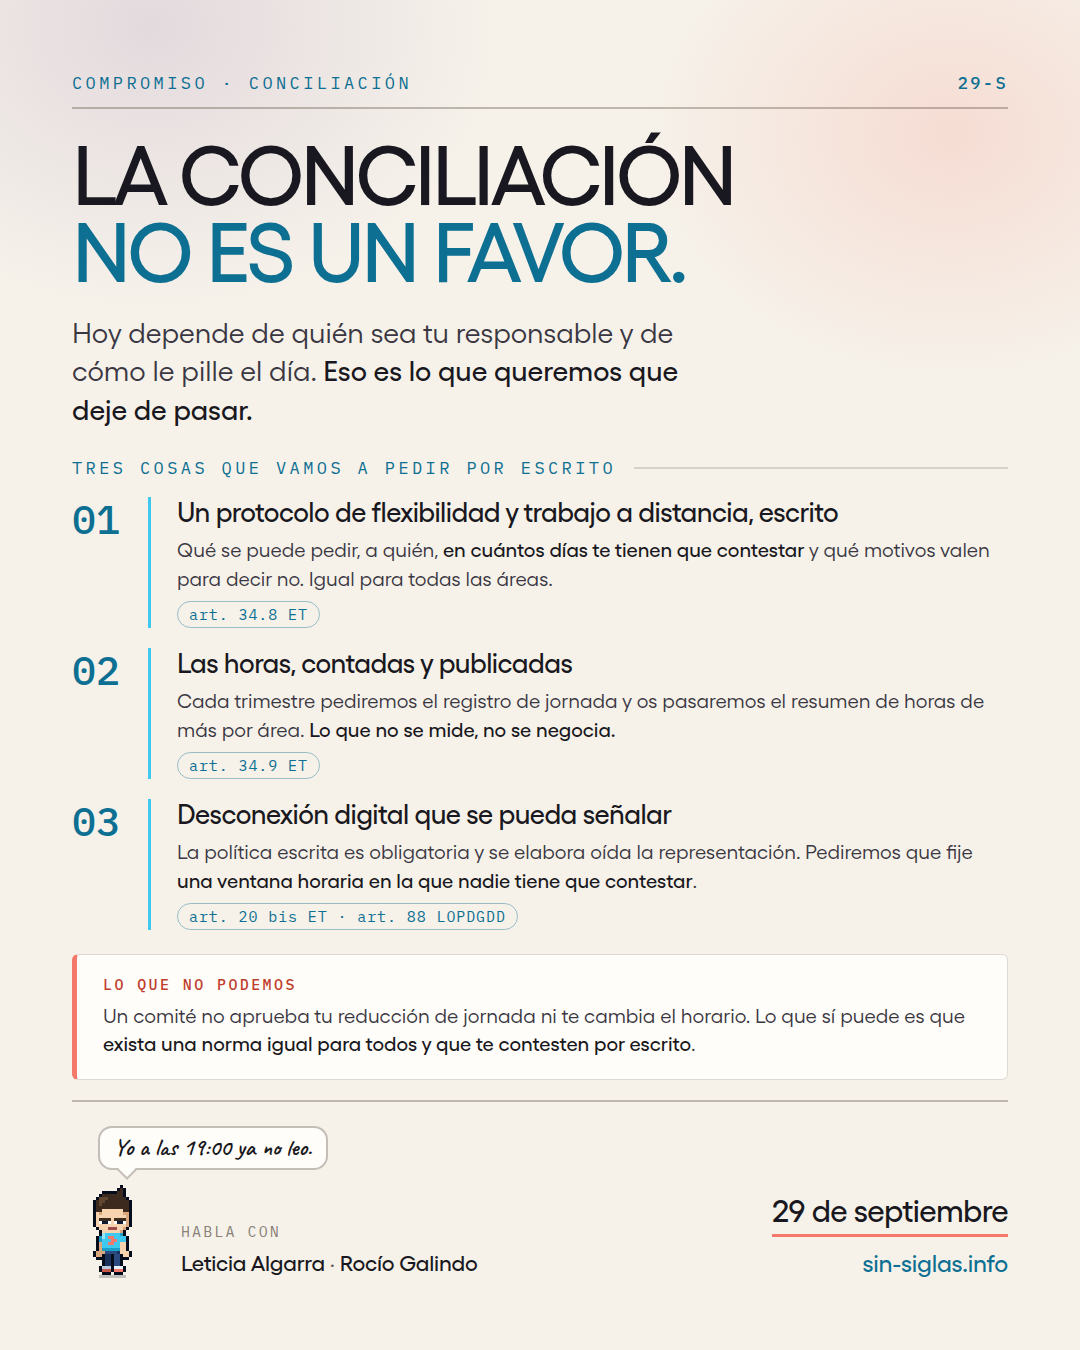
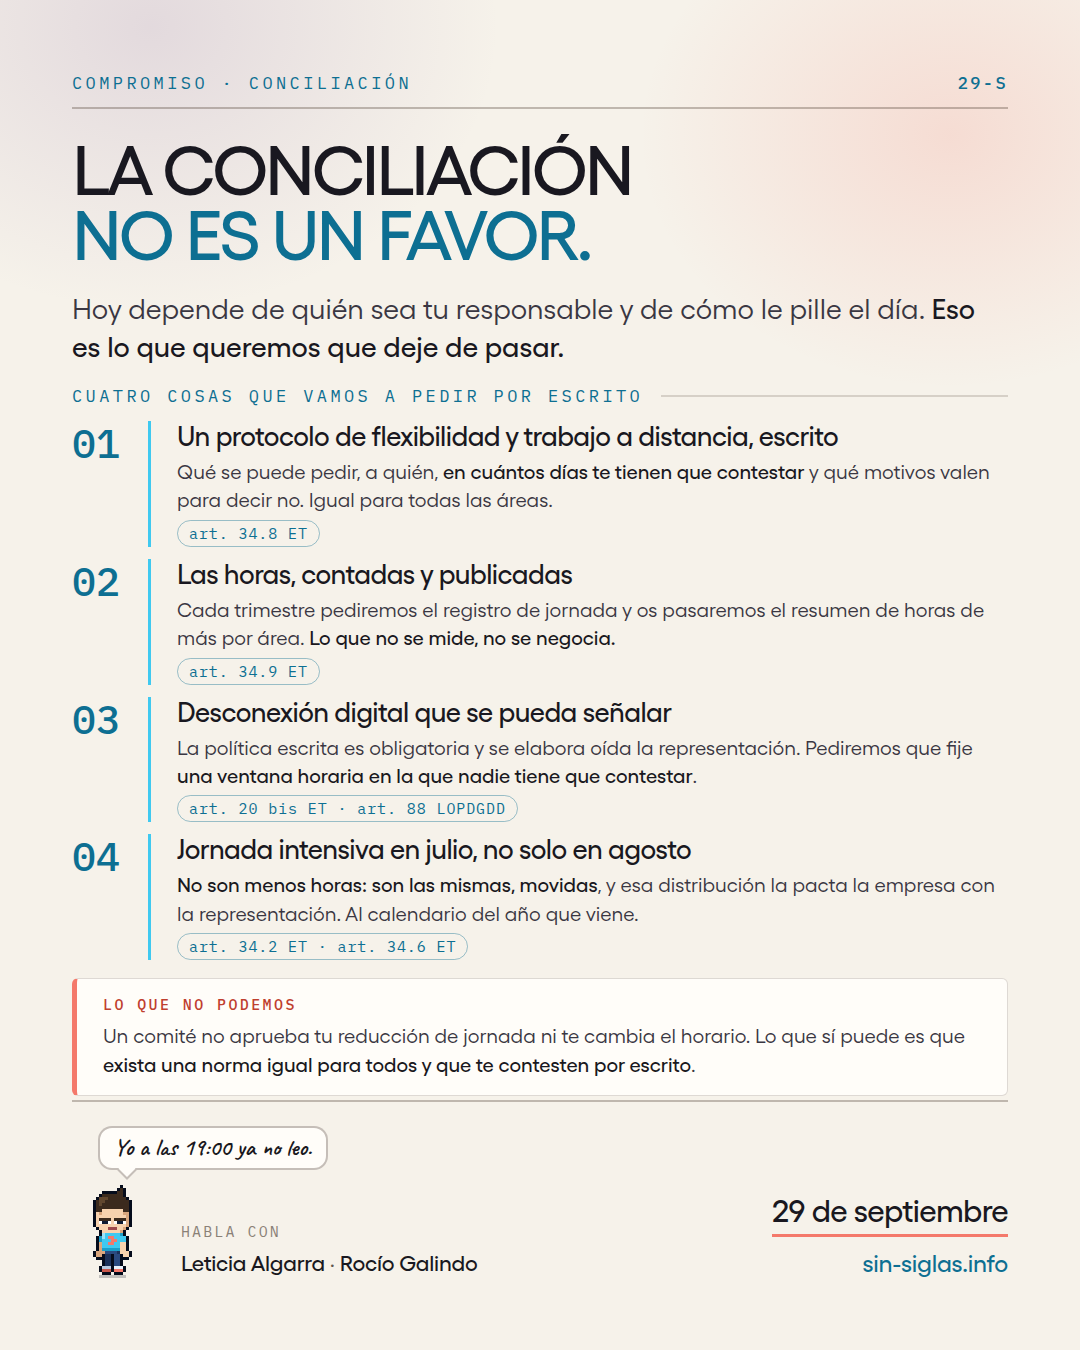
El material contesta a lo que ha llegado al buzón
Once respuestas en cuatro días, y cinco de ellas hablan de dinero: IPC y
pérdida de poder adquisitivo, y dos de que los trienios se devengan y se
los come el complemento de empresa. Tres piden jornada intensiva en
julio y en todo el verano. Las otras tres, carga de trabajo, preguntar
al equipo al cerrar un proyecto y herramientas.

O sea: lo más pedido es justo lo que un comité no puede decretar. De ahí
salen los tres cambios de este commit.

1. Cartel nuevo, `propuestas` (jueves 10, lo manda Laura Muñoz). Abre
diciendo que no vamos a prometer lo que no se puede cumplir, y da tres
acciones con su artículo y su límite en la misma línea: pedir por
escrito la apertura de una negociación de empresa sobre la revisión
salarial y publicar la respuesta (art. 87.1 ET); pedir qué regla de
absorción se aplica a los trienios y contrastarla con el convenio, para
reclamar si está mal aplicada (art. 26.5 ET, art. 64.7.a ET); y pedir el
registro retributivo entero, que incluye complementos y percepciones
extrasalariales, para contar qué diferencias dejó de verdad la fusión
(art. 28.2 ET, RD 902/2020).

El panel de límites dice lo que no se puede: el IPC y el igualar por
arriba los decide la empresa, no el comité. Y lo que sí: por abajo no se
iguala sin informe nuestro (art. 64.5 ET).

No menciona a ninguna otra candidatura y no le hace falta. Sus dos
piezas no mienten -- dicen "propondremos negociar", que es exactamente
[…]

diff --git a/carteles/carteles.html b/carteles/carteles.html
@@ -365,6 +365,43 @@ body.solo .cartel.elegido{display:flex}
 }
 .ultimo b{color:var(--coral);font-weight:500}
 
+/* 12 · el rótulo con menos aire: son tres acciones con su límite
+   dentro y el margen de serie no cabe */
+/* 02 · con la cuarta acción dentro, el cartel va al ras: el rótulo, los
+   huecos y los sellos de artículo ceden lo justo para que quepa */
+#c2 .rotulo{margin:18px 0 14px}
+#c2 .acciones{gap:12px}
+#c2 .accion h3{margin-bottom:6px}
+#c2 .ley{margin-top:5px}
+#c2 .limite{margin-top:18px;padding:16px 26px}
+
+#c12 .tapa{padding-bottom:11px;margin-bottom:20px}
+#c12 .rotulo{margin:12px 0 10px}
+#c12 .acciones{gap:12px}
+#c12 .accion h3{margin-bottom:6px}
+#c12 .ley{margin-top:5px}
+#c12 .limite{margin-top:12px;padding:15px 26px}
+#c12 .resto{margin-top:8px}
+#c12 .resto ul{gap:4px}
+#c12 .resto li{gap:16px;padding-bottom:4px}
+
+/* 12 · el resto de lo que ha llegado al buzón, una línea por tema con lo
+   que se puede hacer con él. Va en tipografía pequeña a propósito: no es
+   la propuesta, es la prueba de que no hemos tirado nada */
+.resto{margin:16px 0 0}
+.resto__t{
+  font-family:var(--mono);font-weight:500;font-size:13px;letter-spacing:.16em;
+  text-transform:uppercase;color:var(--acento);margin:0 0 9px
+}
+.resto ul{list-style:none;margin:0;padding:0;display:grid;gap:5px}
+.resto li{
+  display:grid;grid-template-columns:1fr auto;gap:20px;align-items:baseline;
+  font-family:var(--mono);font-size:13.5px;line-height:1.3;letter-spacing:.02em;
+  color:var(--apagado);border-bottom:1px solid var(--linea);padding-bottom:5px
+}
+.resto b{color:var(--texto-2);font-weight:500}
+.resto i{font-style:normal;color:var(--cian);text-align:right}
+
 /* 11 · el reto: el cartel es el propio tablero del juego. La pregunta
    que sale es de verdad, y es la única del banco cuya respuesta está
    en el mismo cartel: la esquina de arriba la regala */
@@ -403,17 +440,31 @@ body.solo .cartel.elegido{display:flex}
 }
 .hud__nota b{color:var(--coral);font-weight:600}
 
-/* 11 · las reglas a la izquierda y el QR que lleva al juego */
-.reto{display:grid;grid-template-columns:1fr 156px;gap:40px;align-items:start;margin-top:22px}
-.reto .datos{gap:12px}
-/* el margen que el navegador le pone a <figure> se come 80 px de la
-   columna: aquí se quita, y solo aquí, que el cartel del buzón ya está
-   enviado con su QR grande y no se toca */
-.reto .qr{margin:0}
-.reto .qr img{width:156px;height:156px}
-.reto .qr figcaption{margin-top:11px;font-size:12px;letter-spacing:.08em}
-.reto .qr figcaption i{font-size:16px;margin-bottom:4px}
-.reto .qr figcaption b{font-size:18px;margin-top:4px}
+/* 11 · las dos vías, cada una con su QR: jugar y escribir al buzón.
+   El buzón entra en el cartel del reto porque este se lee con el fin de
+   semana por medio y el buzón cierra el 22; es la única pieza que lleva
+   los dos códigos, y por eso cada uno va de su color: coral el reto,
+   cian el buzón, como en la web */
+.vias{display:grid;grid-template-columns:1fr 1fr;gap:34px;margin-top:24px}
+.via{
+  display:grid;grid-template-columns:132px 1fr;gap:20px;align-items:start;
+  background:var(--panel);border:1px solid var(--linea);
+  border-left:5px solid var(--coral-vivo);border-radius:6px;padding:18px 22px
+}
+.via--buzon{border-left-color:var(--cian-vivo)}
+.via img{display:block;width:132px;height:132px}
+.via__rotulo{
+  font-family:var(--mono);font-weight:500;font-size:13px;letter-spacing:.16em;
+  text-transform:uppercase;color:var(--coral);margin:0 0 7px
+}
+.via--buzon .via__rotulo{color:var(--cian)}
+.via__q{font-weight:500;font-size:22px;line-height:1.15;letter-spacing:-.02em;margin:0 0 9px}
+.via__p{font-size:17px;line-height:1.36;color:var(--texto-2);margin:0}
+.via__p b{color:var(--texto);font-weight:500}
+.via__url{
+  font-family:var(--mono);font-size:12.5px;letter-spacing:.04em;color:var(--cian);
+  margin:9px 0 0
+}
 </style>
 </head>
 <body>
@@ -506,36 +557,37 @@ body.solo .cartel.elegido{display:flex}
     </div>
   </div>
 
-  <div class="reto">
-    <ul class="datos">
-      <li>
-        <strong>Se sube rápido</strong>
-        <p>100 por acierto, <b>+50 por rapidez y +100 por racha</b>.</p>
-      </li>
-      <li>
-        <strong>El ranking es público</strong>
-        <p>Dejas un alias y tu mejor marca sale en el tablero, en vivo.</p>
-      </li>
-      <li>
-        <strong>Y hay premio</strong>
-        <p>Pequeño, y <b>se sortea entre todos los que jueguen</b>: con jugar
-          una vez ya entras.</p>
-      </li>
-    </ul>
-    <figure class="qr">
+  <div class="vias">
+    <div class="via">
       <img src="qr-reto.svg" alt="Código QR al reto de la web de la candidatura.">
-      <figcaption><i>Al reto</i>Apunta la cámara<b>sin-siglas.info</b></figcaption>
-    </figure>
+      <div>
+        <p class="via__rotulo">Apunta y juega</p>
+        <p class="via__q">¿Cuánto nos conoces?</p>
+        <p class="via__p">Doce preguntas y <b>el ranking a la vista de todos</b>.</p>
+        <p class="via__url">sin-siglas.info</p>
+      </div>
+    </div>
+    <div class="via via--buzon">
+      <img src="qr-buzon.svg" alt="Código QR al buzón anónimo de la candidatura.">
+      <div>
+        <p class="via__rotulo">Y de paso, escríbenos</p>
+        <p class="via__q">¿Qué cambiarías de tu día a día?</p>
+        <p class="via__p"><b>Anónimo</b>: sin nombre, sin área ni correo. El 22 publicamos lo
+          más repetido.</p>
+        <p class="via__url">sin-siglas.info/buzon</p>
+      </div>
+    </div>
   </div>
 
-  <p class="ultimo"><b>El premio no está condicionado a tu voto</b>, ni a que votes: el reto
-    es solo para que nos pongáis cara. Lo serio, en el buzón, y sigue siendo anónimo.</p>
+  <p class="ultimo"><b>El premio del reto se sortea entre todos los que jueguen</b> y no está
+    condicionado a tu voto, ni a que votes. Del buzón no publicamos nada que permita saber quién
+    lo escribió.</p>
 
   <footer class="pie">
     <div class="compi"><p class="compi__globo">¿Me ganas?</p><canvas data-pose="chuleo" data-tt="200"></canvas></div>
     <div class="pie__medio">
-      <p class="pie__quien">Dónde está el reto</p>
-      <p class="pie__nombres">En la portada de la web <span>&middot; el botón coral</span></p>
+      <p class="pie__quien">Las dos cosas, desde el móvil y en tres minutos</p>
+      <p class="pie__nombres">Once personas, seis áreas<span> &middot; cero siglas</span></p>
     </div>
     <div class="pie__voto">
       <p class="pie__fecha">29 de septiembre</p>
@@ -550,13 +602,13 @@ body.solo .cartel.elegido{display:flex}
 <section class="cartel" id="c2">
   <div class="tapa"><span>Compromiso · Conciliación</span><b>29-S</b></div>
 
-  <h1 class="titular">La conciliación<em>no es un favor.</em></h1>
-  <p class="bajada">
+  <h1 class="titular titular--largo">La conciliación<em>no es un favor.</em></h1>
+  <p class="bajada bajada--ancha">
     Hoy depende de quién sea tu responsable y de cómo le pille el día.
     <b>Eso es lo que queremos que deje de pasar.</b>
   </p>
 
-  <p class="rotulo">Tres cosas que vamos a pedir por escrito</p>
+  <p class="rotulo">Cuatro cosas que vamos a pedir por escrito</p>
   <ul class="acciones">
     <li class="accion">
       <div class="accion__n">01</div>
@@ -585,6 +637,15 @@ body.solo .cartel.elegido{display:flex}
         <span class="ley">art. 20 bis ET · art. 88 LOPDGDD</span>
       </div>
     </li>
+    <li class="accion">
+      <div class="accion__n">04</div>
+      <div class="accion__cuerpo">
+        <h3>Jornada intensiva en julio, no solo en agosto</h3>
+        <p><b>No son menos horas: son las mismas, movidas</b>, y esa distribución la pacta la
+          empresa con la representación. Al calendario del año que viene.</p>
+        <span class="ley">art. 34.2 ET · art. 34.6 ET</span>
+      </div>
+    </li>
   </ul>
 
   <div class="limite">
@@ -598,6 +659,91 @@ body.solo .cartel.elegido{display:flex}
     <div class="pie__medio">
       <p class="pie__quien">Habla con</p>
       <p class="pie__nombres">Leticia Algarra <span>·</span> Rocío Galindo</p>
+    </div>
+    <div class="pie__voto">
+      <p class="pie__fecha">29 de septiembre</p>
+      <p class="pie__url">sin-siglas.info</p>
+    </div>
+  </footer>
+</section>
+
+<!-- ==================================================================
+     PROPUESTAS SIN FALSAS EXPECTATIVAS · jueves 10 de septiembre
+     lo manda Laura Muñoz
+     ------------------------------------------------------------------
+     La pieza que contesta a lo que más se repite en el buzón, que es
+     justo lo que un comité no puede decretar: sueldo, trienios y las
+     diferencias que dejó la fusión. Cada acción lleva el artículo que
+     la sostiene y el límite dicho en la misma línea.
+
+     No menciona a ninguna otra candidatura, y no hace falta: el
+     argumento se sostiene solo, que es la regla del apartado 6 de
+     ESTRATEGIA.md. Las cifras del rótulo son las respuestas reales del
+     buzón a día 8 -- once, cinco de ellas sobre sueldo -- y hay que
+     actualizarlas si se envía más tarde.
+     ================================================================== -->
+<section class="cartel" id="c12">
+  <div class="tapa"><span>Sin falsas expectativas</span><b>29-S</b></div>
+
+  <h1 class="titular titular--largo">No te prometemos<em>lo que no podemos.</em></h1>
+  <p class="bajada bajada--ancha">
+    <b>No queremos crearte falsas expectativas</b>: un comité no firma tu nómina. Esto es lo que
+    sí podemos hacer, con artículo y con plazo.
+  </p>
+
+  <p class="rotulo">De las once respuestas del buzón, cinco hablan de dinero</p>
+  <ul class="acciones">
+    <li class="accion">
+      <div class="accion__n">01</div>
+      <div class="accion__cuerpo">
+        <h3>El poder adquisitivo, lo más repetido</h3>
+        <p>Pediremos <b>abrir por escrito una negociación de empresa sobre la revisión
+          salarial</b> y publicaremos la respuesta. El primer mes.</p>
+        <span class="ley">art. 87.1 ET</span>
+      </div>
+    </li>
+    <li class="accion">
+      <div class="accion__n">02</div>
+      <div class="accion__cuerpo">
+        <h3>Los trienios que se come el complemento</h3>
+        <p>Pediremos <b>qué regla de absorción se aplica y en qué se apoya</b>, y la
+          contrastaremos con el convenio. Si está mal aplicada, se reclama.</p>
+        <span class="ley">art. 26.5 ET &middot; art. 64.7.a ET</span>
+      </div>
+    </li>
+    <li class="accion">
+      <div class="accion__n">03</div>
+      <div class="accion__cuerpo">
+        <h3>Las diferencias que dejó la fusión</h3>
+        <p>El registro retributivo lo incluye todo y la representación puede verlo <b>entero</b>:
+          os diremos qué diferencias hay de verdad, sin nombres.</p>
+        <span class="ley">art. 28.2 ET &middot; RD 902/2020</span>
+      </div>
+    </li>
+  </ul>
+
+  <div class="limite">
+    <h4>Lo que no podemos</h4>
+    <p>El IPC o igualar por arriba <b>los decide la empresa</b>, no el comité. <b>Y por abajo no
+      se iguala sin informe nuestro.</b> <span class="ley">art. 64.5 ET</span></p>
+  </div>
+
+  <div class="resto">
+    <p class="resto__t">Y lo demás que nos habéis escrito, sin descartar nada</p>
+    <ul>
+      <li><span><b>Jornada intensiva en julio</b>, no solo en agosto</span><i>acción 04 de conciliación</i></li>
+      <li><span><b>Que el cliente no marque el día a día</b> de quien programa</span><i>informe previo &middot; art. 64.5 ET</i></li>
+      <li><span><b>Preguntar al equipo al cerrar cada proyecto</b>: carga, agobios y lo que salió mal</span><i>a la evaluación psicosocial</i></li>
+      <li><span><b>Más responsabilidad</b> —varios proyectos a la vez— <b>con la subida que le toca</b></span><i>va con la 01</i></li>
+      <li><span><b>Herramientas</b>: WSL y Windows</span><i>no es de comité: lo trasladamos</i></li>
+    </ul>
+  </div>
+
+  <footer class="pie">
+    <div class="compi"><p class="compi__globo">Sin humo.</p><canvas data-pose="quieto" data-tt="900"></canvas></div>
+    <div class="pie__medio">
+      <p class="pie__quien">Habla con</p>
+      <p class="pie__nombres">Laura Muñoz <span>&middot;</span> Raúl Navarro</p>
     </div>
     <div class="pie__voto">
       <p class="pie__fecha">29 de septiembre</p>

diff --git a/carteles/ESTRATEGIA.md b/carteles/ESTRATEGIA.md
@@ -53,7 +53,7 @@ el giro de la campaña.
 |---|---|---|
 | Marca | Sin siglas. Solo compañerxs. | Web + A3 (ya hechos) |
 | Temas | Tres acciones concretas por compromiso | `conciliacion`, `ambiente`, `comunicacion` |
-| Prueba | Que somos comprobables y honestos | `buzon`, `lo-que-no-podemos`, `voces-del-buzon`, `semaforo` |
+| Prueba | Que somos comprobables y honestos | `buzon`, `lo-que-no-podemos`, `voces-del-buzon`, `semaforo`, `propuestas` |
 | Conversión | Cómo, cuándo y por qué votar | `donde-encontrarnos`, `por-que-votar`, `ultima-llamada` |
 | Enganche | Entra en la web y quédate tres minutos | `reto` |
 
@@ -145,8 +145,19 @@ Dos reglas que no son de diseño:
    funcionan.** Un cartel que invita a jugar y lleva a una página caída hace el mismo daño que un
    QR roto.
 
-El QR del cartel decodifica impreso y en pantalla de ordenador, pero **no a tamaño de miniatura
-en el móvil**: quien lo mande pega también el enlace en el mensaje.
+**El cartel lleva los dos QR: el del reto y el del buzón.** Es la única pieza de la serie con
+dos códigos, y no es un descuido. El buzón se abrió el día 4 y el pago llega el 22; en medio hay
+un fin de semana y ninguna pieza que lo recuerde, así que el envío que sí va a abrir la gente
+—porque trae un juego— lleva también la petición de que escriban. El reto manda en el titular y
+en el tablero; el buzón es la segunda puerta, con su color cian y su pregunta, la misma del
+formulario.
+
+Ojo con lo que dice de cada uno: el buzón **no cierra el 22**, sigue abierto después del 29. Lo
+del 22 es que publicamos lo más repetido, y así está escrito en el cartel.
+
+Los dos QR decodifican impresos y en pantalla de ordenador —comprobado leyéndolos del PNG
+final—, pero **no a tamaño de miniatura en el móvil**, y menos ahora que van a 132 px en vez de
+156. Quien lo mande pega también los dos enlaces en el mensaje.
 
 ---
 
@@ -155,8 +166,9 @@ en el móvil**: quien lo mande pega también el enlace en el mensaje.
 | Día | Pieza | Rol | Quién la manda |
 |---|---|---|---|
 | vie 4 sep | **Primero tú** · el buzón + QR | Apertura: pedimos antes de prometer | Rocío Galindo |
-| lun 7 sep | **A que no nos conoces** · el reto | Enganche: entrar en la web y jugar | Mario Aranda |
+| lun 7 sep | **A que no nos conoces** · el reto | Enganche: jugar, y de paso escribir al buzón | Mario Aranda |
 | mar 8 sep | **La conciliación no es un favor** | Tema | Leticia Algarra |
+| jue 10 sep | **No te prometemos lo que no podemos** | Lo que pide el buzón, con artículo y límite | Laura Muñoz |
 | vie 11 sep | **Se puede medir** · ambiente y salud | Tema | Raúl Navarro |
 | mar 15 sep | **Que te lo cuenten antes** · comunicación | Tema | José Pablo Fernández |
 | jue 17 sep | **Lo que un comité no te va a conseguir** | Diferenciación por honestidad | Mario Barchéin |
@@ -218,6 +230,33 @@ La respuesta del buzón es la única métrica que se puede leer en tiempo real y
 cambia el material: si el día 12 la conciliación se lleva la mitad de las respuestas, el cartel
 06 abre con eso y el 07 lo pone primero en el tablero.
 
+**Lo que hay a 8 de septiembre: once respuestas en cuatro días.** Cinco hablan de dinero —IPC y
+pérdida de poder adquisitivo, y dos de ellas de que los trienios se absorben con el complemento
+de empresa—, tres de jornada de verano y calor por las tardes, y las otras tres de carga de
+trabajo, de preguntar al equipo al cerrar un proyecto y de herramientas. Van seis temas
+distintos, que era el objetivo, y el ritmo llega a las 25 si no se para.
+
+Eso ha cambiado dos cosas del plan. Una: **el tema más pedido es justo el que un comité no puede
+decretar**, y de ahí sale la pieza del día 10. Dos: `conciliacion` pasa de tres acciones a cuatro
+y entra la **jornada intensiva en julio, no solo en agosto**, que es lo más pedido del buzón en
+horarios y no estaba.
+
+La cuarta acción se apoya en que la intensiva **no es reducir jornada, es redistribuirla**: son
+las mismas horas del año movidas, y esa distribución se pacta entre la empresa y la representación
+(art. 34.2 ET), con el calendario laboral anual como sitio donde ponerlo (art. 34.6 ET). Por eso
+se puede pedir sin prometer nada que cueste dinero, y por eso no se mezcla con «jornada más
+corta», que sí es convenio.
+
+Y tres: `propuestas` cierra con **una línea por cada tema que ha llegado y no es de dinero**, con
+lo que se puede hacer con él —dónde está pedido, con qué artículo se lleva, o que no es materia de
+comité y aun así se traslada—. Son cinco líneas en tipografía pequeña y no son la propuesta: son
+la prueba de que no se ha tirado nada. Quien escribió del calor, del cliente que marca el día a
+día o de las herramientas se tiene que reconocer en el cartel, o el buzón deja de recibir
+respuestas.
+
+Ojo con las etiquetas: *ya está pedido* es del cartel del día 22 y significa pedido **a la
+empresa**. Todavía no hay comité, así que aquí no se usa: se dice en qué cartel está la acción.
+
 ---
 
 ## 8. Base legal de las propuestas
@@ -241,6 +280,9 @@ lista completa, para que cualquiera de los once la pueda defender si le pregunta
 | Sigilo sobre la información confidencial | art. 65.2 ET |
 | Duración del mandato: cuatro años | art. 67.3 ET |
 | Permiso de 20 horas anuales de formación | art. 23 ET |
+| Pedir la apertura de una negociación de empresa | art. 87.1 ET (el comité está legitimado para negociar) |
+| Comprobar la absorción de los trienios | art. 26.5 ET (compensación y absorción) |
+| Vigilar el cumplimiento y reclamar si no se cumple | art. 64.7.a ET (vigilancia y acciones legales) |
 
 ---
 
